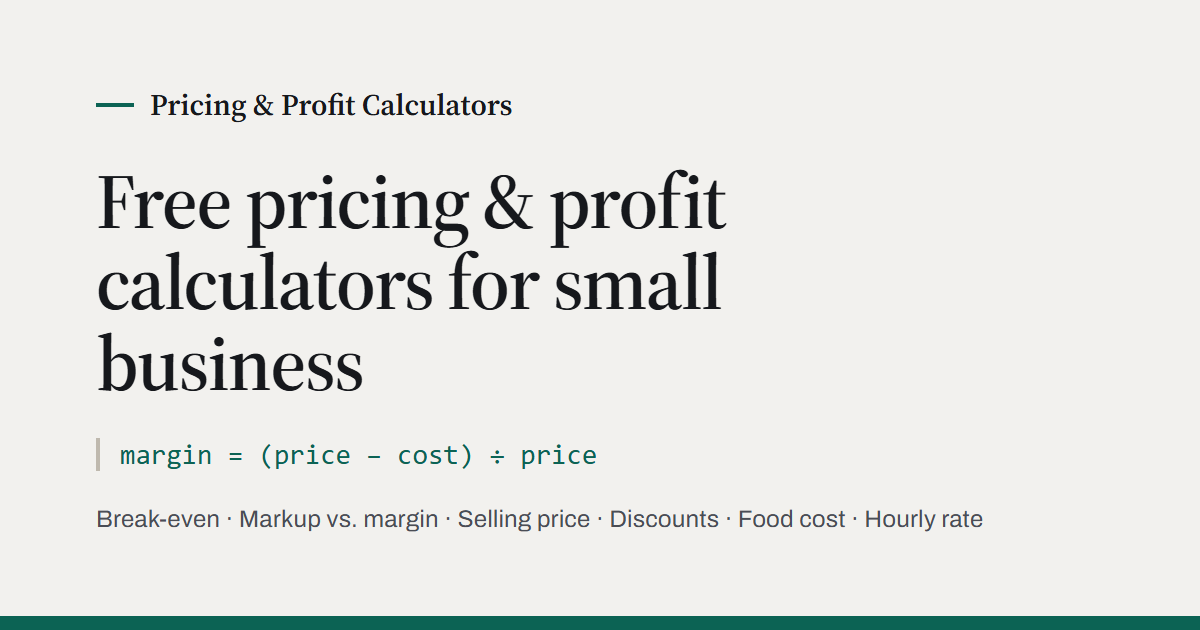
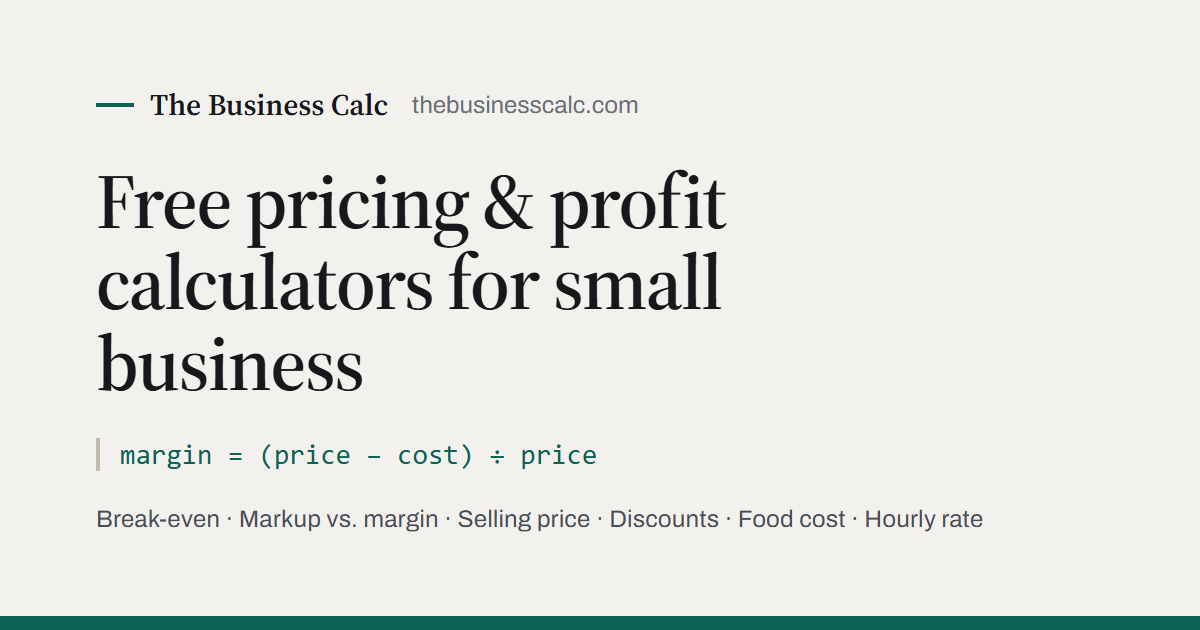
Rebrand to The Business Calc for thebusinesscalc.com
Site name, share image, and docs now use the real brand and domain.
The domain itself stays an environment variable (PUBLIC_SITE_DOMAIN).

Changed region(s): [[0.1233, 0.1508, 0.555, 0.2111]]

diff --git a/sites/pricing-calculators/site.config.ts b/sites/pricing-calculators/site.config.ts
@@ -7,7 +7,7 @@ import { GA4_PLACEHOLDER_ID, PLACEHOLDER_ORGANIZATION_NAME, validateSiteConfig }
  * later WITHOUT editing this file or any code, by setting these two
  * environment variables in the Cloudflare Pages project settings:
  *
- *   PUBLIC_SITE_DOMAIN           e.g. "pricingcalcs.com" (no protocol)
+ *   PUBLIC_SITE_DOMAIN           e.g. "thebusinesscalc.com" (no protocol)
  *   PUBLIC_GA4_MEASUREMENT_ID    e.g. "G-XXXXXXXXXX"
  *
  * Until PUBLIC_SITE_DOMAIN is set, `domain` stays `null`. That puts the
@@ -25,7 +25,7 @@ const ga4MeasurementId = envGa4Id ? envGa4Id : GA4_PLACEHOLDER_ID;
 
 // Optional at launch. While unset, the footer credits the site name and the
 // contact/privacy pages say no inbox is published yet.
-//   PUBLIC_CONTACT_EMAIL         e.g. "hello@pricingcalcs.com"
+//   PUBLIC_CONTACT_EMAIL         e.g. "hello@thebusinesscalc.com"
 //   PUBLIC_ORGANIZATION_NAME     e.g. "Jane Doe" or "Acme Tools LLC"
 const contactEmail = process.env.PUBLIC_CONTACT_EMAIL?.trim() || "placeholder@example.com";
 const organizationName = process.env.PUBLIC_ORGANIZATION_NAME?.trim() || PLACEHOLDER_ORGANIZATION_NAME;
@@ -42,7 +42,7 @@ const inContentSlotId = process.env.PUBLIC_ADSENSE_SLOT_IN_CONTENT?.trim() || un
 
 export const siteConfig = validateSiteConfig({
   siteId: "pricing-calculators",
-  siteName: "Pricing & Profit Calculators",
+  siteName: "The Business Calc",
   domain,
   organizationName,
   defaultDescription:

diff --git a/docs/operations-checklist.md b/docs/operations-checklist.md
@@ -61,8 +61,8 @@ only**, so preview deploys stay `noindex`:
 
 | Variable | Value |
 |---|---|
-| `PUBLIC_SITE_DOMAIN` | `yourdomain.com` (no `https://`, no `www`) |
-| `PUBLIC_CONTACT_EMAIL` | `hello@yourdomain.com` (see Email Routing below) |
+| `PUBLIC_SITE_DOMAIN` | `thebusinesscalc.com` (no `https://`, no `www`) |
+| `PUBLIC_CONTACT_EMAIL` | `hello@thebusinesscalc.com` (see Email Routing below) |
 | `PUBLIC_ORGANIZATION_NAME` | Optional: your name or business name |
 | `PUBLIC_GA4_MEASUREMENT_ID` | Optional: `G-XXXXXXXXXX` (read section 6 first) |
 | `PUBLIC_ADSENSE_CLIENT_ID` | Later: `ca-pub-…` when you apply to AdSense (section 4) |
@@ -76,11 +76,11 @@ deployment (Deployments → ⋯ → Retry deployment, or push a commit).
 
 - Buy the domain (Cloudflare Registrar sells at cost). Turn on **auto-renew**
   and keep the registrar lock on. WHOIS privacy is automatic at Cloudflare.
-- Pages project → Custom domains → add **both** `yourdomain.com` and
-  `www.yourdomain.com`.
+- Pages project → Custom domains → add **both** `thebusinesscalc.com` and
+  `www.thebusinesscalc.com`.
 - Redirect `www` → apex: Rules → **Redirect Rules** → create a rule:
-  hostname equals `www.yourdomain.com` → dynamic redirect to
-  `concat("https://yourdomain.com", http.request.uri.path)`, status **301**,
+  hostname equals `www.thebusinesscalc.com` → dynamic redirect to
+  `concat("https://thebusinesscalc.com", http.request.uri.path)`, status **301**,
   preserve query string.
 - DNS → Settings → enable **DNSSEC**.
 - Optional: a **CAA** record allowing only the CA Cloudflare uses, so no
@@ -113,11 +113,11 @@ reading it.
 
 ### 1.6 Email Routing for the contact address [launch]
 
-- Email → **Email Routing** → enable → create `hello@yourdomain.com` →
+- Email → **Email Routing** → enable → create `hello@thebusinesscalc.com` →
   forward to your personal inbox. It's free, and Cloudflare adds the MX/SPF
   records.
 - Add a DMARC record, e.g. TXT `_dmarc` = `v=DMARC1; p=quarantine;
-  rua=mailto:hello@yourdomain.com`, so others can't spoof your domain.
+  rua=mailto:hello@thebusinesscalc.com`, so others can't spoof your domain.
 - Set `PUBLIC_CONTACT_EMAIL` to that address and redeploy.
 
 ### 1.7 Analytics options [launch, optional]
@@ -149,8 +149,8 @@ reading it.
   - `/llms.txt` lists your domain's URLs.
   - `/break-even` returns 200 with no redirect; `/break-even/` redirects to it.
   - View source on one page: `<meta name="robots" content="index, follow">`,
-    and the canonical is `https://yourdomain.com/...`.
-  - `www.yourdomain.com` 301-redirects to the apex.
+    and the canonical is `https://thebusinesscalc.com/...`.
+  - `www.thebusinesscalc.com` 301-redirects to the apex.
   - `https://<project>.pages.dev` still works; its canonical points at your
     domain, so it won't compete in search.
 - **[ongoing] Rollback:** Pages → Deployments → choose a previous good
@@ -227,7 +227,7 @@ than shipping broken markup.
   footer — done).
 - **[you]** In AdSense, add the site, choose "Meta tag" verification, set
   `PUBLIC_ADSENSE_CLIENT_ID`, redeploy, then click Verify. Check that
-  `https://yourdomain.com/ads.txt` shows your `pub-` line.
+  `https://thebusinesscalc.com/ads.txt` shows your `pub-` line.
 - Expect review to take days to weeks. A first rejection for "low-value
   content" is common on new sites: add pages and reapply.
 
@@ -306,7 +306,7 @@ than shipping broken markup.
 
 - **[launch] Google Search Console:** add the domain property (verify by DNS
   — Cloudflare can add the record automatically) and submit
-  `https://yourdomain.com/sitemap-index.xml`.
+  `https://thebusinesscalc.com/sitemap-index.xml`.
 - **[launch] Bing Webmaster Tools:** import from Search Console and submit the
   same sitemap. Bing feeds ChatGPT search and Copilot.
 - **[launch, choose one] Analytics:**

diff --git a/docs/deployment.md b/docs/deployment.md
@@ -25,9 +25,9 @@ Repeat with a separate Pages project for every other site, swapping the
 
 | Variable | Required? | Purpose |
 |---|---|---|
-| `PUBLIC_SITE_DOMAIN` | No (until launch) | Bare hostname, e.g. `pricingcalcs.com`. Unset = site stays in safe "no domain yet" mode (noindex, `robots.txt` disallow). See the root README. |
+| `PUBLIC_SITE_DOMAIN` | No (until launch) | Bare hostname, e.g. `thebusinesscalc.com`. Unset = site stays in safe "no domain yet" mode (noindex, `robots.txt` disallow). See the root README. |
 | `PUBLIC_GA4_MEASUREMENT_ID` | No | A real GA4 ID, e.g. `G-XXXXXXXXXX`. Unset = analytics stay fully disabled. |
-| `PUBLIC_CONTACT_EMAIL` | Recommended | A monitored inbox, e.g. `hello@pricingcalcs.com`. Shown on `/contact` and `/privacy`. Unset = those pages say an address is coming. |
+| `PUBLIC_CONTACT_EMAIL` | Recommended | A monitored inbox, e.g. `hello@thebusinesscalc.com`. Shown on `/contact` and `/privacy`. Unset = those pages say an address is coming. |
 | `PUBLIC_ADSENSE_CLIENT_ID` / `PUBLIC_ADS_ENABLED` / `PUBLIC_ADSENSE_SLOT_IN_CONTENT` | Later | AdSense, in stages — see [Enabling ads later](#enabling-ads-later). |
 | `PUBLIC_ORGANIZATION_NAME` | No | Your name or business name. Used in the footer copyright, `/about`, `/privacy`, and Organization structured data. Unset = the site name is credited instead. |
 

diff --git a/README.md b/README.md
@@ -94,7 +94,7 @@ loads, or inline when running a build):
 
 | Variable | Effect when set |
 |---|---|
-| `PUBLIC_SITE_DOMAIN` | Bare hostname, e.g. `pricingcalcs.com` (no protocol). Flips the site to production-ready: indexable, real canonical/OG URLs, `robots.txt` allows crawling. |
+| `PUBLIC_SITE_DOMAIN` | Bare hostname, e.g. `thebusinesscalc.com` (no protocol). Flips the site to production-ready: indexable, real canonical/OG URLs, `robots.txt` allows crawling. |
 | `PUBLIC_GA4_MEASUREMENT_ID` | A real GA4 ID, e.g. `G-XXXXXXXXXX`. Enables the GA4 script. Leave unset to keep analytics fully disabled. |
 | `PUBLIC_CONTACT_EMAIL` | A monitored inbox shown on `/contact` and `/privacy` (pricing-calculators). |
 | `PUBLIC_ORGANIZATION_NAME` | Name credited in the footer, `/about`, `/privacy`, and Organization JSON-LD (pricing-calculators). |
